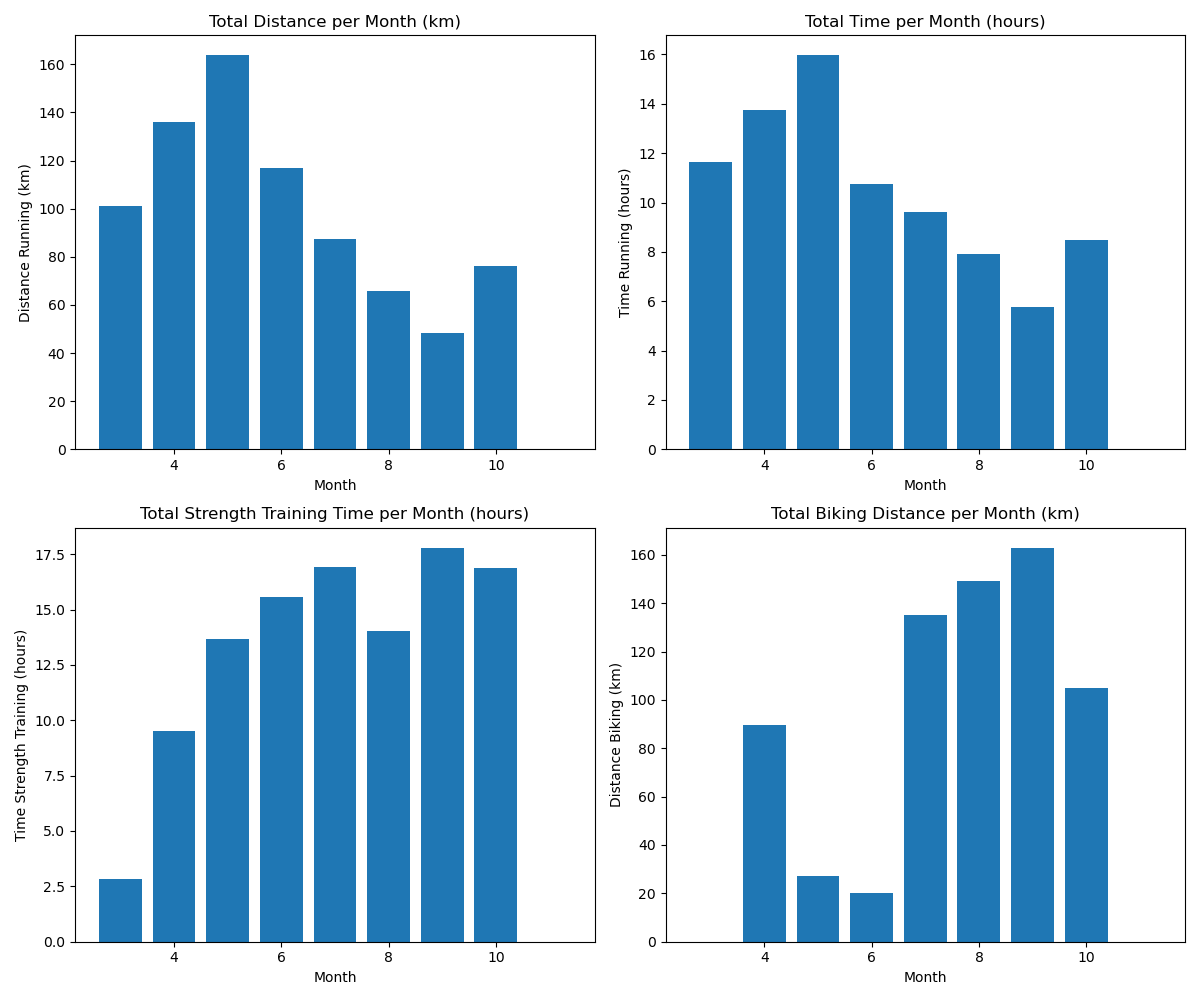
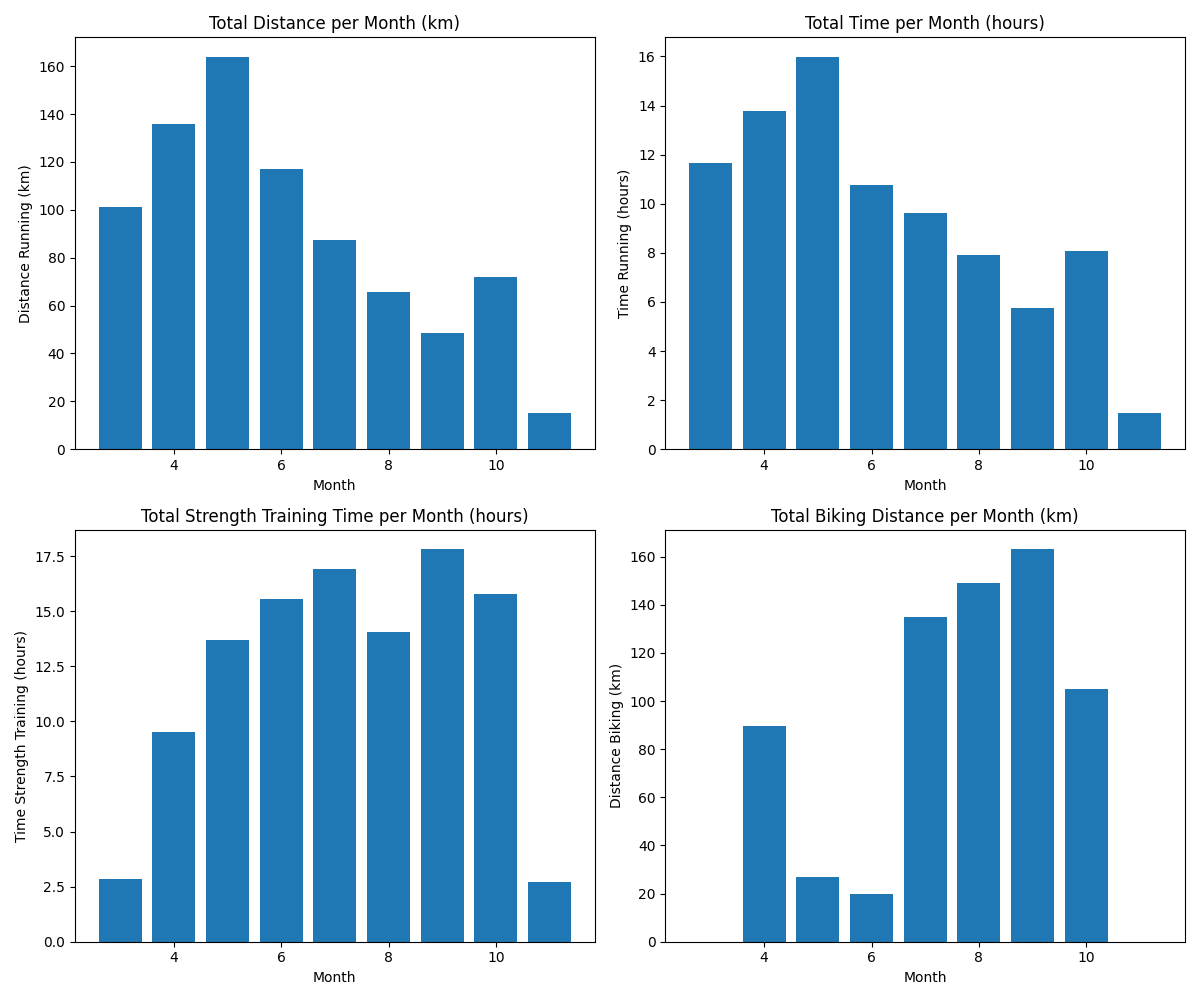
sports update

diff --git a/Sport/Sport_2025_report.md b/Sport/Sport_2025_report.md
@@ -3,17 +3,17 @@
 ## Sport Counts
 | type   |   count |
 |:-------|--------:|
-| F      |     173 |
+| F      |     175 |
 | L      |      25 |
 | S      |       7 |
-| Total  |     205 |
+| Total  |     207 |
 
 ## Summary
-- **Total distance run on treadmill:** 634.80 km
+- **Total distance run on treadmill:** 645.80 km
 - **Total distance run outside:** 144.35 km
 - **Total distance cycled:** 688.80 km
 - **Total distance swimming:** 16.20 km
-- **Total time spent on strength training:** 107h 11min
+- **Total time spent on strength training:** 108h 49min
 
 ## Average Speeds
 - **Treadmill running:** 10.13 km/h
